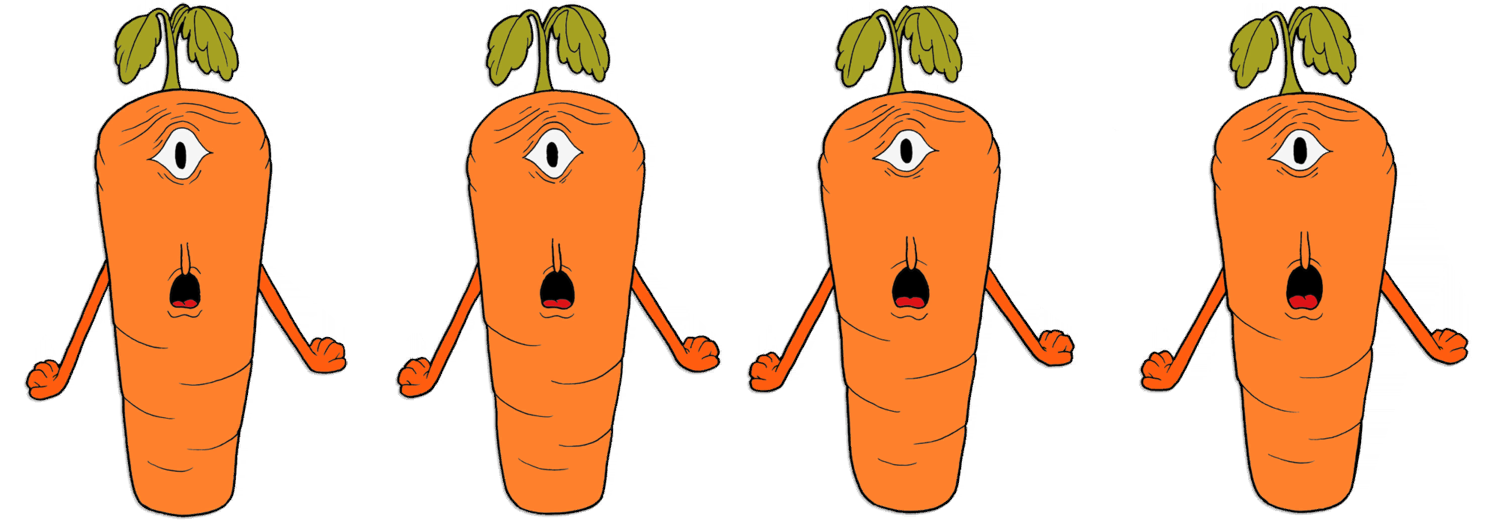
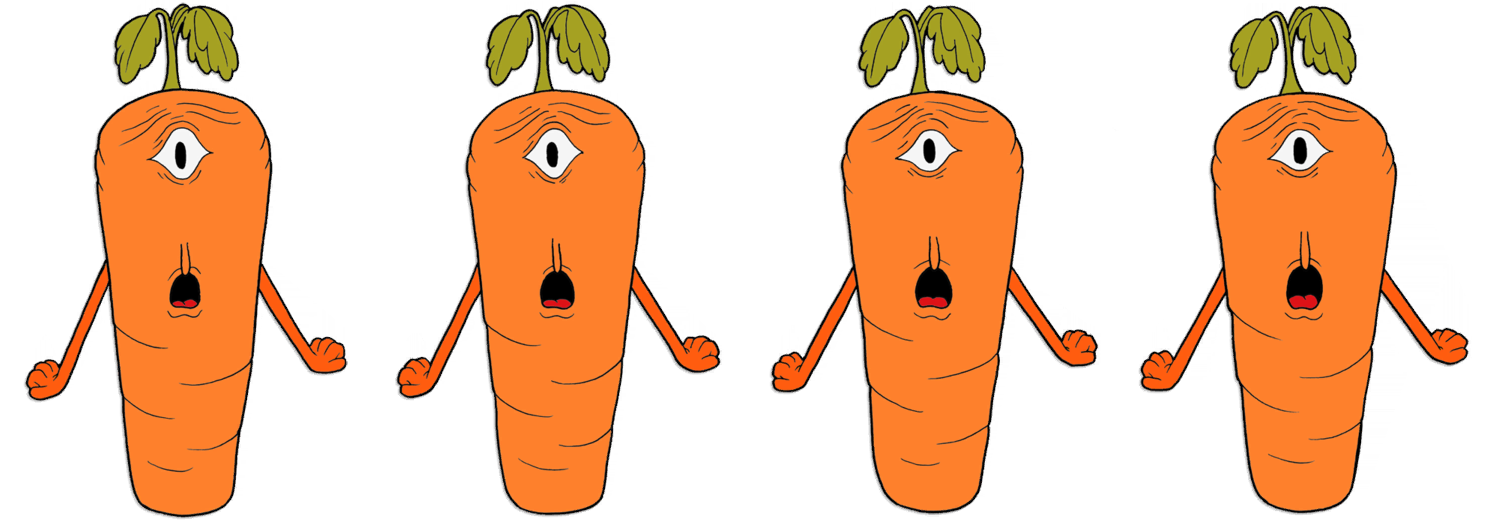
당근 빔 구현

Changed region(s): [[0.4933, 0.0, 0.7399, 1.0]]

diff --git a/Cuphead/Contents/Carrot.cpp b/Cuphead/Contents/Carrot.cpp
@@ -9,10 +9,12 @@ ACarrot::ACarrot()
 
 	GroundRenderer = CreateDefaultSubObject<USpriteRenderer>("Ground");
 	CarrotRenderer = CreateDefaultSubObject<USpriteRenderer>("Carrot");
+	EyeRenderer = CreateDefaultSubObject<USpriteRenderer>("Eye");
 	Collision = CreateDefaultSubObject<UCollision>("Collision");
 
 	GroundRenderer->SetupAttachment(Root);
 	CarrotRenderer->SetupAttachment(Root);
+	EyeRenderer->SetupAttachment(Root);
 	Collision->SetupAttachment(Root);
 
 	Collision->SetCollisionGroup(ECollisionGroup::Monster);
@@ -34,9 +36,10 @@ void ACarrot::BeginPlay()
 
 	SetActorLocation({ 0.0f, -270.0f });
 	CarrotRenderer->SetPosition({ 0.0f, 0.0f });
+	EyeRenderer->SetPosition({ -2.0f, 310.0f });
 	GroundRenderer->SetPosition({ 0.0f, -20.0f });
-	Collision->SetPosition(CarrotRenderer->GetLocalPosition() + FVector(0.0f, 250.0f, 0.0f));
-	Collision->SetScale({ 300.0f, 500.0f });
+	Collision->SetPosition(CarrotRenderer->GetLocalPosition() + FVector(0.0f, 270.0f, 0.0f));
+	Collision->SetScale({ 300.0f, 450.0f });
 }
 
 void ACarrot::Tick(float _DeltaTime)
@@ -63,28 +66,17 @@ void ACarrot::DebugUpdate(float _DeltaTime)
 void ACarrot::RendererInit()
 {
 	CarrotRenderer->CreateAnimation("carrot_intro", "carrot_intro", 1 / 12.0f, false);
-	
-	std::vector<int> Indexes;
-	for (int i = 0; i < 18; ++i)
-	{
-		Indexes.push_back(i);
-	}
-	for (int i = 17; i > 0; --i)
-	{
-		Indexes.push_back(i);
-	}
-
-	CarrotRenderer->CreateAnimation("carrot_idle", "carrot_idle.png", 
-		std::vector(35, 1/12.0f),
-		Indexes, true);
-
+	CarrotRenderer->CreateAnimation("carrot_idle", "carrot_idle.png", 1 / 12.0f, true);
 	CarrotRenderer->CreateAnimation("carrot_idle_to_beam", "carrot_idle_to_beam.png", 1 / 12.0f, false);
 	CarrotRenderer->CreateAnimation("carrot_beam_body", "carrot_beam_body.png", 1 / 12.0f, true);
 	CarrotRenderer->CreateAnimation("carrot_beam_eye", "carrot_beam_eye.png", 1 / 12.0f, true);
 	CarrotRenderer->CreateAnimation("carrot_faint", "carrot_faint.png", 1 / 12.0f, true);
+
+	EyeRenderer->CreateAnimation("carrot_beam_eye", "carrot_beam_eye.png", 1 / 12.0f, true);
+
 	GroundRenderer->CreateAnimation("ground_intro", "carrot_ground_intro.png",
-		std::vector<float>(28, 1 / 18.0f),
-		{ 0, 1, 2, 3, 4, 5, 4, 3, 2, 1, 0, 1, 2, 3, 4, 5, 6, 7, 6, 7, 8, 9, 10, 11, 12, 13, 14, 15 }, false);
+			std::vector<float>(28, 1 / 18.0f),
+			{ 0, 1, 2, 3, 4, 5, 4, 3, 2, 1, 0, 1, 2, 3, 4, 5, 6, 7, 6, 7, 8, 9, 10, 11, 12, 13, 14, 15 }, false);
 	GroundRenderer->CreateAnimation("ground_idle", "carrot_ground_idle.png", 1 / 12.0f, false);
 
 	GroundRenderer->SetFrameCallback("ground_intro", 20, [this]() {
@@ -95,14 +87,25 @@ void ACarrot::RendererInit()
 		GroundRenderer->ChangeAnimation("ground_idle");
 		});
 
+	CarrotRenderer->SetFrameCallback("carrot_idle_to_beam", 8, [this]() {
+		CarrotRenderer->ChangeAnimation("carrot_beam_body");
+		EyeRenderer->ChangeAnimation("carrot_beam_eye");
+		EyeRenderer->SetActive(true);
+		});
+
 	CarrotRenderer->SetOrder(ERenderingOrder::Back3);
+	EyeRenderer->SetOrder(ERenderingOrder::Back4);
 	GroundRenderer->SetOrder(ERenderingOrder::Back4);
 
 	CarrotRenderer->SetPivot(EPivot::BOT);
+	EyeRenderer->SetPivot(EPivot::BOT);
 	GroundRenderer->SetPivot(EPivot::BOT);
 
 	CarrotRenderer->SetAutoSize(1.2f, true);
+	EyeRenderer->SetAutoSize(1.2f, true);
 	GroundRenderer->SetAutoSize(1.2f, true);
+
+	EyeRenderer->SetActive(false);
 }
 
 void ACarrot::StateInit()
@@ -161,6 +164,7 @@ void ACarrot::IdleEnd()
 void ACarrot::AttackStart()
 {
 	CarrotRenderer->ChangeAnimation("carrot_idle");
+	EyeRenderer->SetActive(false);
 
 	AttackCount = MaxAttackCount;
 	AttackTimer = AttackInterval;
@@ -201,10 +205,46 @@ void ACarrot::AttackEnd()
 
 void ACarrot::BeamStart()
 {
+	CarrotRenderer->ChangeAnimation("carrot_idle_to_beam");
+
+	BeamCount = MaxBeamCount;
+	BeamTimer = BeamInterval;
 }
 
 void ACarrot::Beam(float _DeltaTime)
 {
+	if (0 == BeamCount)
+	{
+		return;
+	}
+
+	BeamTimer -= _DeltaTime;
+
+	if (BeamTimer >= 0.0f)
+	{
+		return;
+	}
+
+	for (int i = 0; i < 5; ++i)
+	{
+		DelayCallBack(0.1f * i, [this]() {
+			ABossAttack* Beam = GetWorld()->SpawnActor<ABossAttack>("Beam").get();
+			Beam->SetRenderingOrder(ERenderingOrder::Bullet);
+			Beam->SetActorLocation(GetActorLocation() + FVector(0.0f, 400.0f, 0.0f));
+			Beam->SetVelocity(FVector::Down * 650.0f);
+			Beam->SetAnimation("carrot_beam_proj", "carrot_beam_proj.png", 1 / 12.0f, false);
+			});
+	}
+	
+	--BeamCount;
+	BeamTimer = BeamInterval;
+
+	if (0 == BeamCount)
+	{
+		DelayCallBack(1.0f, [this]() {
+			StateManager.ChangeState("Attack");
+		});
+	}
 }
 
 void ACarrot::BeamEnd()

diff --git a/Cuphead/Contents/CupheadCore.cpp b/Cuphead/Contents/CupheadCore.cpp
@@ -157,6 +157,7 @@ void UCupheadCore::LoadResources()
 		UEngineSprite::CreateCutting("carrot_beam_eye.png", 4, 1);
 		UEngineSprite::CreateCutting("carrot_faint.png", 21, 1);
 		UEngineSprite::CreateCutting("carrot_proj.png", 6, 1);
+		UEngineSprite::CreateCutting("carrot_beam_proj.png", 12, 1);
 	}
 
 	{
